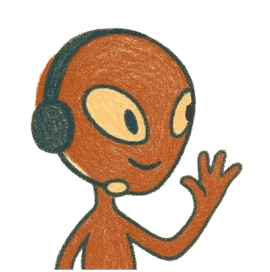
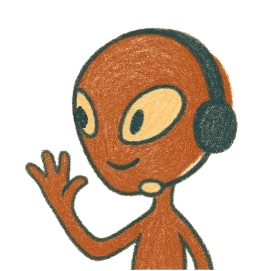
fonction chatbot

diff --git a/components/Chat.js b/components/Chat.js
@@ -1,35 +1,55 @@
-import p from "../assets/image/entry.png";
-import React, { useEffect, useRef, useState } from "react";
+import p from '../assets/image/entry.png';
+import React, { useContext, useEffect, useRef, useState } from 'react';
+import { LanguageContext } from '@/components/LanguageContext';
+import Markdown from 'markdown-to-jsx';
 
 export const Chat = () => {
+  const { language } = useContext(LanguageContext);
+  const greetingMessages = {
+    en: 'Hi! Ask me about Yili...',
+    fr: 'Bonjour! À propos de Yili, pose-moi des questions....',
+  };
+  const placeholderMessages = {
+    en: 'Input your question here...',
+    fr: 'Entrez votre question ici...',
+  };
   const [isOpen, setIsOpen] = useState(false);
   const [messages, setMessages] = useState([]);
-  const [inputMessage, setInputMessage] = useState("");
+  const [inputMessage, setInputMessage] = useState('');
   const [isLoading, setIsLoading] = useState(false);
 
   const messagesEndRef = useRef(null);
+  const messageContainerRef = useRef(null);
+  useEffect(() => {
+    const container = messageContainerRef.current;
 
-  // useEffect(() => {
-  //   messagesEndRef.current?.scrollIntoView({ behavior: "smooth" });
-  // }, [messages]);
+    if (container) {
+      const scrollHeight = container.scrollHeight;
+      const clientHeight = container.clientHeight;
+
+      if (scrollHeight > clientHeight) {
+        messagesEndRef.current?.scrollIntoView({ behavior: 'smooth' });
+      }
+    }
+  }, [messages]);
 
   const handleSendMessage = async () => {
-    if (inputMessage.trim() === "" || isLoading) return;
+    if (inputMessage.trim() === '' || isLoading) return;
 
     const userMessage = inputMessage;
 
     setMessages((prevMessages) => [
       ...prevMessages,
-      { id: Date.now(), text: userMessage, sender: "user" },
+      { id: Date.now(), text: userMessage, sender: 'user' },
     ]);
-    setInputMessage("");
+    setInputMessage('');
     setIsLoading(true);
 
     try {
-      const response = await fetch("/api/chat", {
-        method: "POST",
+      const response = await fetch('/api/chat', {
+        method: 'POST',
         headers: {
-          "Content-Type": "application/json",
+          'Content-Type': 'application/json',
         },
         body: JSON.stringify({ message: userMessage }),
       });
@@ -42,16 +62,16 @@ export const Chat = () => {
 
       setMessages((prevMessages) => [
         ...prevMessages,
-        { id: Date.now() + 1, text: data.reply, sender: "bot" },
+        { id: Date.now() + 1, text: data.reply, sender: 'bot' },
       ]);
     } catch (error) {
-      console.error("发送消息失败:", error);
+      console.error('发送消息失败:', error);
       setMessages((prevMessages) => [
         ...prevMessages,
         {
           id: Date.now() + 1,
-          text: "Bot error, ask me later.",
-          sender: "bot",
+          text: 'Bot error, ask me later.',
+          sender: 'bot',
           isError: true,
         },
       ]);
@@ -61,7 +81,7 @@ export const Chat = () => {
   };
 
   const handleKeyDown = (e) => {
-    if (e.key === "Enter") {
+    if (e.key === 'Enter') {
       e.preventDefault();
       handleSendMessage();
     }
@@ -76,7 +96,7 @@ export const Chat = () => {
   const adjustTextareaHeight = () => {
     const textarea = textareaRef.current;
     if (textarea) {
-      textarea.style.height = "auto";
+      textarea.style.height = 'auto';
       textarea.style.height = `${textarea.scrollHeight}px`;
     }
   };
@@ -87,39 +107,35 @@ export const Chat = () => {
   return (
     <div className="d-flex flex-column h-100 w-100 p-3">
       <div
+        ref={messageContainerRef}
         className="flex-grow-1 overflow-y-auto space-y-3 custom-scrollbar mb-3"
         style={{ minHeight: 0 }}
       >
         {messages.length === 0 && (
-          <p className="text-center text-muted mt-5">
-            Hi！ Ask me about Yili...
-          </p>
+          <p className="text-center text-muted mt-5">{greetingMessages[language]}</p>
         )}
         {messages.map((msg) => (
           <div
             key={msg.id}
-            className={`d-flex ${msg.sender === "user" ? "justify-content-end" : "justify-content-start"}`}
+            className={`d-flex mt-2 ${msg.sender === 'user' ? 'justify-content-end' : 'justify-content-start'}`}
           >
             <div
               className={`p-3 rounded-3 shadow-sm ${
-                msg.sender === "user"
-                  ? "bg-primary text-white"
-                  : "bg-light text-dark"
+                msg.sender === 'user' ? 'bg-primary text-white' : 'bg-light text-dark'
               }`}
-              style={{ maxWidth: "80%" }}
+              style={{ maxWidth: '80%' }}
             >
-              {msg.text}
+              {msg.sender === 'bot' ? <Markdown>{msg.text}</Markdown> : msg.text}
             </div>
           </div>
         ))}
         {isLoading && (
-          <div className="d-flex justify-content-start">
-            <div
-              className="bg-light p-3 rounded-3 text-muted"
-              style={{ animation: "pulse 1.5s infinite" }}
-            >
-              ...
-            </div>
+          <div className="d-flex flex-column justify-content-start">
+            <p className="placeholder-glow">
+              <span className="placeholder col-6 bg-primary"></span>
+
+              <span className="placeholder col-12 bg-primary"></span>
+            </p>
           </div>
         )}
         <div ref={messagesEndRef} />
@@ -128,13 +144,15 @@ export const Chat = () => {
       <div className="mt-auto d-flex align-items-end pt-2">
         <textarea
           ref={textareaRef}
-          placeholder={isLoading ? "请稍候..." : "输入你的问题..."}
+          placeholder={
+            isLoading ? '...' : language === 'en' ? placeholderMessages.en : placeholderMessages.fr
+          }
           className="form-control flex-grow-1 border border-gray-300 rounded"
           style={{
-            resize: "none",
-            minHeight: "38px",
-            maxHeight: "150px",
-            overflowY: "hidden",
+            resize: 'none',
+            minHeight: '38px',
+            maxHeight: '150px',
+            overflowY: 'hidden',
           }}
           value={inputMessage}
           onChange={handleTextareaChange}
@@ -144,7 +162,7 @@ export const Chat = () => {
         <button
           onClick={handleSendMessage}
           className="btn btn-primary"
-          disabled={isLoading || inputMessage.trim() === ""}
+          disabled={isLoading || inputMessage.trim() === ''}
         >
           Send
         </button>

diff --git a/pages/index.js b/pages/index.js
@@ -1,18 +1,10 @@
-import React, { Fragment, useEffect, useState } from "react";
-import { useContext } from "react";
-import { Nav } from "../components/Navbar";
-import { Intro, Presentation, About } from "../components/Intro";
-import { Projects } from "../components/Projects";
-import { Footer, Contact } from "../components/Footer";
-import {
-  about,
-  contact,
-  intro,
-  navigation,
-  projects,
-  SEO,
-  presentation,
-} from "../config/config";
+import React, { Fragment, useEffect, useState } from 'react';
+import { useContext } from 'react';
+import { Nav } from '../components/Navbar';
+import { Intro, Presentation, About } from '../components/Intro';
+import { Projects } from '../components/Projects';
+import { Footer, Contact } from '../components/Footer';
+import { about, contact, intro, navigation, projects, SEO, presentation } from '../config/config';
 import {
   about_en,
   contact_en,
@@ -21,15 +13,18 @@ import {
   projects_en,
   SEO_en,
   presentation_en,
-} from "../config/config_en";
-import { MyHead } from "../components/MyHead";
-import { Chat } from "@/components/Chat";
-import { LanguageContext } from "../components/LanguageContext";
-import { Panel, PanelGroup, PanelResizeHandle } from "react-resizable-panels";
+} from '../config/config_en';
+import { MyHead } from '../components/MyHead';
+import { Chat } from '@/components/Chat';
+import { LanguageContext } from '../components/LanguageContext';
+import { Panel, PanelGroup, PanelResizeHandle } from 'react-resizable-panels';
+import Image from 'next/image';
+import p from '../assets/image/entry.png';
+import { motion } from 'framer-motion';
 export default function Home() {
   const { language } = useContext(LanguageContext);
   const content =
-    language === "en"
+    language === 'en'
       ? {
           about: about_en,
           contact: contact_en,
@@ -51,14 +46,11 @@ export default function Home() {
   const [isOpen, setIsOpen] = useState(false);
   return (
     <div className="position-relative">
-      <PanelGroup direction="horizontal" style={{ height: "100vh" }}>
-        <Panel defaultSize={100} style={{ height: "100%", overflowY: "auto" }}>
+      <PanelGroup direction="horizontal" style={{ height: '100vh' }}>
+        <Panel defaultSize={100} style={{ height: '100%', overflowY: 'auto' }}>
           <Fragment>
             <MyHead seo={content.SEO} />
-            <Nav
-              title={content.navigation.name}
-              links={content.navigation.links}
-            />
+            <Nav title={content.navigation.name} links={content.navigation.links} />
             <Intro
               title={content.intro.title}
               description={content.intro.description}
@@ -68,10 +60,7 @@ export default function Home() {
               title={content.presentation.title}
               description={content.presentation.description}
             />
-            <Projects
-              title={content.projects.title}
-              cards={content.projects.cards}
-            />
+            <Projects title={content.projects.title} cards={content.projects.cards} />
             <About title={content.about.title} cards={content.about.cards} />
             <Contact
               title={content.contact.title}
@@ -80,11 +69,24 @@ export default function Home() {
             />
             <button
               id="dynamicBtn"
-              className={"position-fixed top-50 end-0 translate-middle-y"}
+              className={'position-fixed top-50 end-0 translate-middle-y border-0 bg-transparent '}
               onClick={() => setIsOpen(true)}
-              style={{ display: isOpen ? "none" : "block" }}
+              style={{ display: isOpen ? 'none' : 'block' }}
             >
-              button
+              <motion.div
+                initial={{ rotate: 0 }}
+                whileHover={{
+                  x: -25,
+                  rotate: [0, -45, 0],
+                  scale: 1.2,
+                }}
+                transition={{
+                  duration: 1,
+                  times: [0, 0.5, 1],
+                }}
+              >
+                <Image src={p.src} alt={'chatbot'} width={100} height={100} />
+              </motion.div>
             </button>
             <Footer />
           </Fragment>
@@ -94,10 +96,7 @@ export default function Home() {
             <PanelResizeHandle />
             <Panel defaultSize={30} minSize={20} maxSize={50}>
               <div className="d-flex justify-content-center w-100 h-100 p-3">
-                <button
-                  className={"position-fixed top-0 end-0"}
-                  onClick={() => setIsOpen(false)}
-                >
+                <button className={'position-fixed top-0 end-0'} onClick={() => setIsOpen(false)}>
                   ✕
                 </button>
                 <Chat />

diff --git a/pages/api/chat.js b/pages/api/chat.js
@@ -1,42 +1,43 @@
-import * as fs from "fs/promises";
-import * as path from "path";
-import { GoogleGenAI } from "@google/genai";
+import * as fs from 'fs/promises';
+import * as path from 'path';
+import { GoogleGenAI } from '@google/genai';
 
 const ai = new GoogleGenAI({});
-const DATA_FILE_PATH = path.join(process.cwd(), "data", "personal_data.txt");
+const DATA_FILE_PATH = path.join(process.cwd(), 'data', 'personal_data.txt');
 
 export default async function handler(req, res) {
-  if (req.method !== "POST") {
+  if (req.method !== 'POST') {
     return res.status(405).end();
   }
 
   const { message } = req.body;
   if (!message) {
-    return res.status(400).json({ error: "缺少消息内容" });
+    return res.status(400).json({ error: '缺少消息内容' });
   }
 
   try {
-    const personalData = await fs.readFile(DATA_FILE_PATH, "utf-8");
+    const personalData = await fs.readFile(DATA_FILE_PATH, 'utf-8');
     const systemPrompt = `
-      你是一个基于我个人档案信息的智能助理。
-      你的回答必须严格基于以下提供的[个人档案信息]。
-
-      --- 语言指令 ---
-      请始终根据用户提问的语言（例如：中文、英文、法文）来提供对应的回复。
-      **如果用户提问的语言非中文，请你先将[个人档案信息]中的相关内容翻译成提问语言，然后再回答问题。**
-      如果信息中找不到问题的答案，请礼貌地说明“我目前的信息库中没有关于这方面的内容”，并使用用户提问的语言。
-      --- 语言指令 ---
-
-      [个人档案信息]：
+      你是一个基于我个人档案信息的智能助理。你的回答必须严格基于以下提供的[个人档案信息]。
+    --- 语言指令 ---
+    请始终根据用户提问的语言（例如：中文、英文、法文）来提供对应的回复。
+    如果[个人档案信息]中找不到问题的答案，请使用以下格式和内容，并根据用户提问的语言进行翻译，回复用户：
+    [找不到答案的回复模板]的法文版：
+    Je n'ai actuellement aucune information à ce sujet dans ma base de données. Si vous avez des questions concernant mon profil, n'hésitez pas à me contacter à [ylizhang3@gmail.com](mailto:ylizhang3@gmail.com).
+    [找不到答案的回复模板]的英文版：
+    I currently do not have any information about that in my database. If you have any questions related to my profile, please feel free to contact me at [ylizhang3@gmail.com](mailto:ylizhang3@gmail.com).
+    请注意：在回复中必须使用 [邮箱地址](mailto:邮箱地址) 的链接格式。
+    --- 语言指令 ---
+    [个人档案信息]：
       ${personalData}
     `;
 
     const response = await ai.models.generateContent({
-      model: "gemini-2.5-flash",
+      model: 'gemini-2.5-flash',
       contents: [
         // 将 systemPrompt 和用户消息合并到一个 user 角色中
         {
-          role: "user",
+          role: 'user',
           parts: [{ text: systemPrompt }, { text: message }],
         },
       ],
@@ -44,9 +45,9 @@ export default async function handler(req, res) {
     const botReply = response.text;
     res.status(200).json({ reply: botReply });
   } catch (error) {
-    console.error("Gemini API 调用错误:", error);
+    console.error('Gemini API 调用错误:', error);
     res.status(500).json({
-      error: "Gemini API 调用失败或文件读取错误。",
+      error: 'Gemini API 调用失败或文件读取错误。',
       details: error.message,
     });
   }
